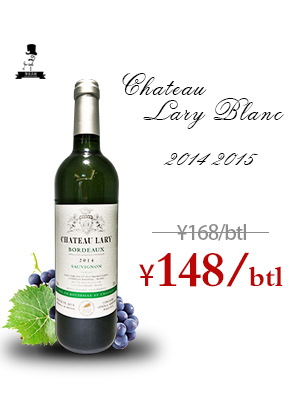
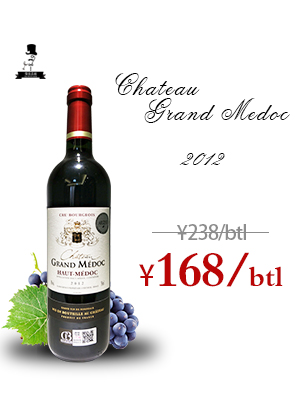
1

diff --git a/index.html b/index.html
@@ -117,7 +117,7 @@
       <div class="main2_b">
         <ul>
           <li>
-            <div class="main2_b_img"> <a href="skin/images/jiu/1.jpg"  data-fancybox="gallery2" ><img class="lazy" src="skin/images/jiu/1.jpg"></a></div>
+            <div class="main2_b_img"> <a href="skin/images/jiu/a1.jpg"  data-fancybox="gallery2" ><img class="lazy" src="skin/images/jiu/a1.jpg"></a></div>
             <div class="main2_b_rt"> <a>拉里城堡白葡萄酒</a><br>
               <span>产地：法国波尔多</span> </div>
             <div class="main2_b_rb">
@@ -166,10 +166,10 @@
           </li>
           <li>
             <div class="main2_b_img"> <a href="skin/images/jiu/a7.jpg"  data-fancybox="gallery2" ><img class="lazy" src="skin/images/jiu/a7.jpg"></a> </div>
-            <div class="main2_b_rt"> <a>拉里城堡白葡萄酒</a><br>
+            <div class="main2_b_rt"> <a>格兰美度城堡红葡萄酒</a><br>
               <span>产地：法国波尔多 </span> </div>
             <div class="main2_b_rb">
-              <p>介绍：美丽的淡黄色酒体，富有柑橘，桃子与白花的香味，入口鲜活优雅，体会到饱满的水果香，回味清爽。</p>
+              <p>介绍：杯中酒液散发出红色水果香气，芳香扑鼻，同时带有浓郁橡木味，酒体平衡饱满，单宁结构平衡。</p>
             </div>
           </li>
         </ul>
